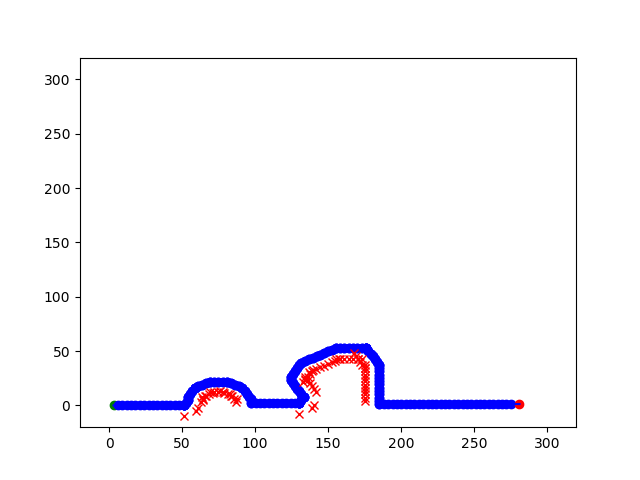
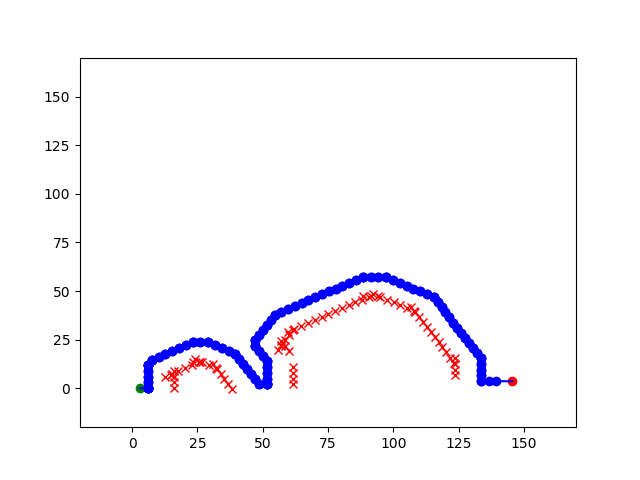
finished

diff --git a/Assignment2/bug.py b/Assignment2/bug.py
@@ -12,7 +12,7 @@ CHASS_WID = 13.5 # Chassis is ~13.5 cm wide.DPR = 360.0/64
 
 X = 0.0
 Y = 0.0
-X_GOAL = 10.0
+X_GOAL = 150.0
 Y_GOAL = 0.0
 theta = 0
 
@@ -22,10 +22,10 @@ OBSTACLE_Y = -1
 
 
 theta_change = 30
-theta_actual_change = 39
+theta_actual_change = 38
 
 ERROR_mline = 4
-ERROR_goal = 20
+ERROR_goal = 6
 
 
 PLOT_X_LIST = []
@@ -207,9 +207,7 @@ def avoidObject():
         for i in range(len(HIT_MLINE_X_LIST)):
             if abs(HIT_MLINE_X_LIST[i] - X) <= ERROR_mline and abs(HIT_MLINE_Y_LIST[i] - Y <= ERROR_mline):
                 print("No solution")
-                stop()
-                time.sleep(1)
-                return True
+                return False
 
     print("h mline value push")
     print("X ", X)
@@ -271,9 +269,7 @@ def avoidObject():
                                 for i in range(len(HIT_MLINE_X_LIST)):
                                     if abs(HIT_MLINE_X_LIST[i] - X) <= ERROR_mline and abs(HIT_MLINE_Y_LIST[i] - Y <= ERROR_mline):
                                         print("No solution 2!!!")
-                                        stop()
-                                        time.sleep(1)
-                                        return True
+                                        return False
 
                             print("on m line, but got farther. Ignore")
 
@@ -312,10 +308,7 @@ def avoidObject():
 
                                     # on a new leave mline. So we basically perform another bug2 algo.
                                     if(bug2()):
-                                        print("bug2 success")
-                                        sys.exit()
-                                        print("bug2 success return")
-                                        return
+                                        return True
 
                 # object to the front and also object next to gopigo. Avoid it
                 else:
@@ -412,9 +405,6 @@ def bug2():
     orient_to_goal()
 
     if isGoal(X_GOAL, Y_GOAL, X, Y):
-        plot_path()
-        plt.savefig("result.png")
-        stop()
         return True
     else:
         # move forward while we don't see an object within 20 cm.
@@ -423,22 +413,24 @@ def bug2():
             onGoal, onMLine = posFeedback(0, 3, 0)
 
             if onGoal:
-                plot_path()
-                plt.savefig("result.png")
-                stop()
-
                 return True
 
     # found an obstacle. Avoid it.
-    avoidObject()
+    if(avoidObject()):
+        return True
+    else:
+        return False
 
 
 
 if __name__ == '__main__':
 
     #Run bug2 algorithm
-    bug2()
+    if(bug2()):
+        print("solution")
+    else:
+        print("no solution")
+        
     plot_path()
-
     #Save trajectory picture
     plt.savefig("result2.png")
